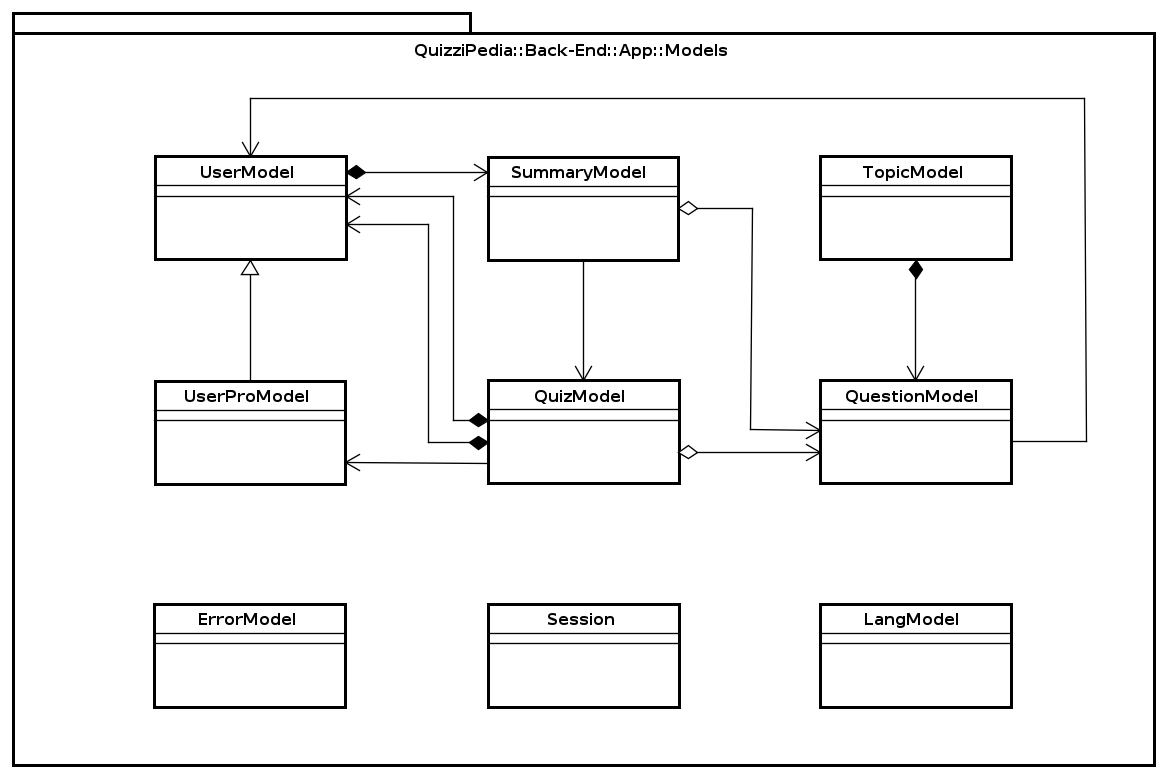
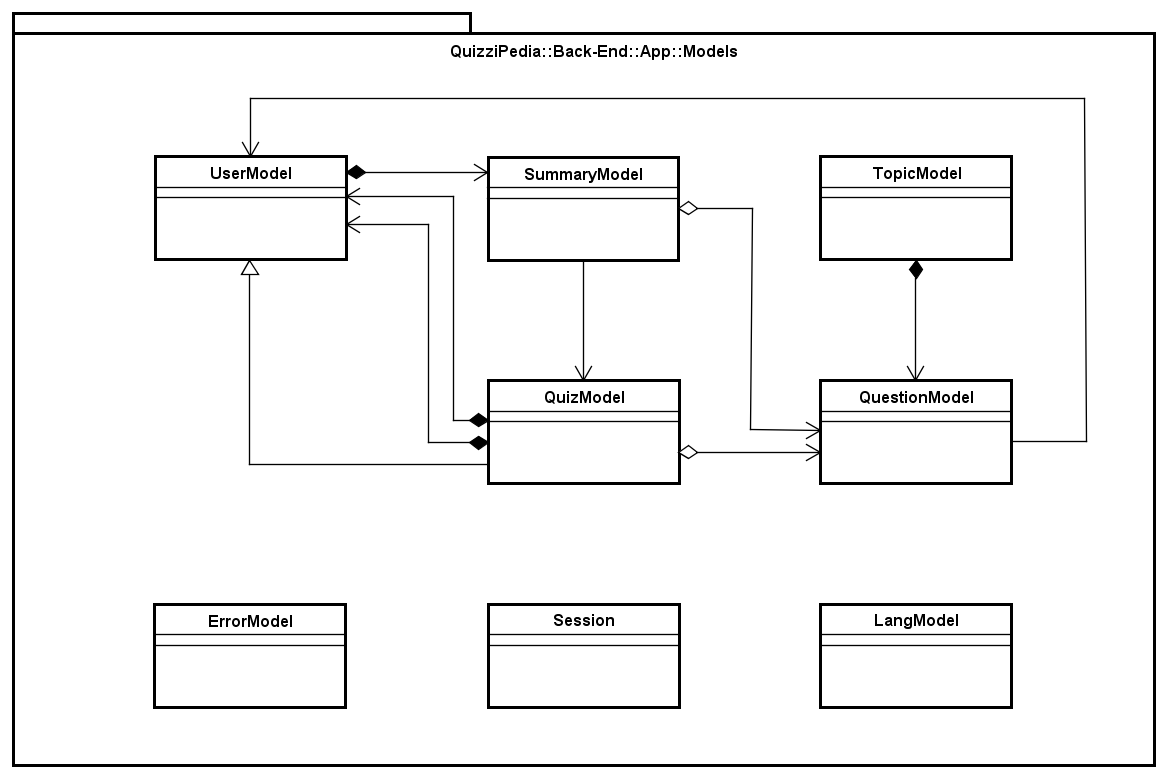
Tolto UserProModel

diff --git a/RQ/DefinizioneDiProdotto/sezioni/Front-End/Controllers/QuizziPedia_Front-End_Controllers_AppController.tex b/RQ/DefinizioneDiProdotto/sezioni/Front-End/Controllers/QuizziPedia_Front-End_Controllers_AppController.tex
@@ -13,7 +13,6 @@
 		\item \textbf{IN \texttt{UserDetailsModel}}: rappresenta un utente. Contiene tutte le informazioni necessarie alla presentazione del contenuto di un utente sia nella visualizzazione che nella gestione di un profilo;
 		\item \textbf{IN} \texttt{LangService}: questa classe permette di gestire la lingua nella quale si è scelto di utilizzare l'applicazione;
 		\item \textbf{IN} \texttt{LangModel}: rappresenta le informazioni per la giusta traduzione dell'applicazione;
-		\item \textbf{IN \texttt{LangModelView}}: classe di tipo \textit{modelview\ped{G}} la cui istanziazione è contenuta all'interno della variabile di ambiente \$rootScope di \textit{Angular\ped{G}}. All'interno di essa sono presenti le variabili e i metodi necessari per il \textit{Two-Way Data-Binding\ped{G}} tra le \textit{views\ped{G}} e i \textit{controllers\ped{G}} per la visualizzazione nella lingua corretta dell'applicazione;
 		\item \textbf{IN} \texttt{AuthService}: questa classe permette di gestire la registrazione e l'autenticazione di un utente;
 		\item \textbf{IN} \texttt{MenuBarModel}: questa classe rappresenta la classe che contiene le informazioni per la giusta visualizzazione della barra;
 		\item \textbf{IN} \texttt{MenuBarModelView}: classe di tipo modelview la cui istanziazione è contenuta all'interno della variabile di ambiente \texttt{\$rootScope} di \textit{Angular\ped{G}}. All'interno di essa sono presenti le variabili e i metodi necessari per il \textit{Two-Way Data-Binding\ped{G}} tra la \textit{view\ped{G}} \texttt{Index} e il \textit{controller\ped{G}} \texttt{MenuBarController};

diff --git a/RQ/DefinizioneDiProdotto/sezioni/Back-End/Models/UserModel.tex b/RQ/DefinizioneDiProdotto/sezioni/Back-End/Models/UserModel.tex
@@ -23,9 +23,7 @@ Rappresenta il ConcreteHandler nel design pattern \textit{Chain of responsibilit
 			\textbf{\item IN \textbf{QuestionModel} }\\
 			Questa classe rappresenta i dati delle domande create dai vari utenti;
 			\textbf{\item IN \textbf{QuizModel}} \\
-			Questa classe rappresenta i dati dei questionari creati dagli utenti Pro;
-			\textbf{\item IN \textbf{UserProModel}} \\
-			Questa classe rappresenta i dati riguardanti l'utente pro.
+			Questa classe rappresenta i dati dei questionari creati dagli utenti Pro.
 		\end{itemize}
 	\item \textbf{Attributi}: 
 		\begin{itemize}

diff --git a/RQ/DefinizioneDiProdotto/sezioni/Back-End/QuizziPedia_Back-End_App_Models.tex b/RQ/DefinizioneDiProdotto/sezioni/Back-End/QuizziPedia_Back-End_App_Models.tex
@@ -20,7 +20,7 @@
 \subsubsection{Classi}
 \input{sezioni/Back-End/Models/SessionModel.tex}
 \input{sezioni/Back-End/Models/UserModel.tex}
-\input{sezioni/Back-End/Models/UserProModel.tex}
+%\input{sezioni/Back-End/Models/UserProModel.tex}
 \input{sezioni/Back-End/Models/QuestionModel.tex}
 \input{sezioni/Back-End/Models/QuizModel.tex}
 \input{sezioni/Back-End/Models/TopicModel.tex}
